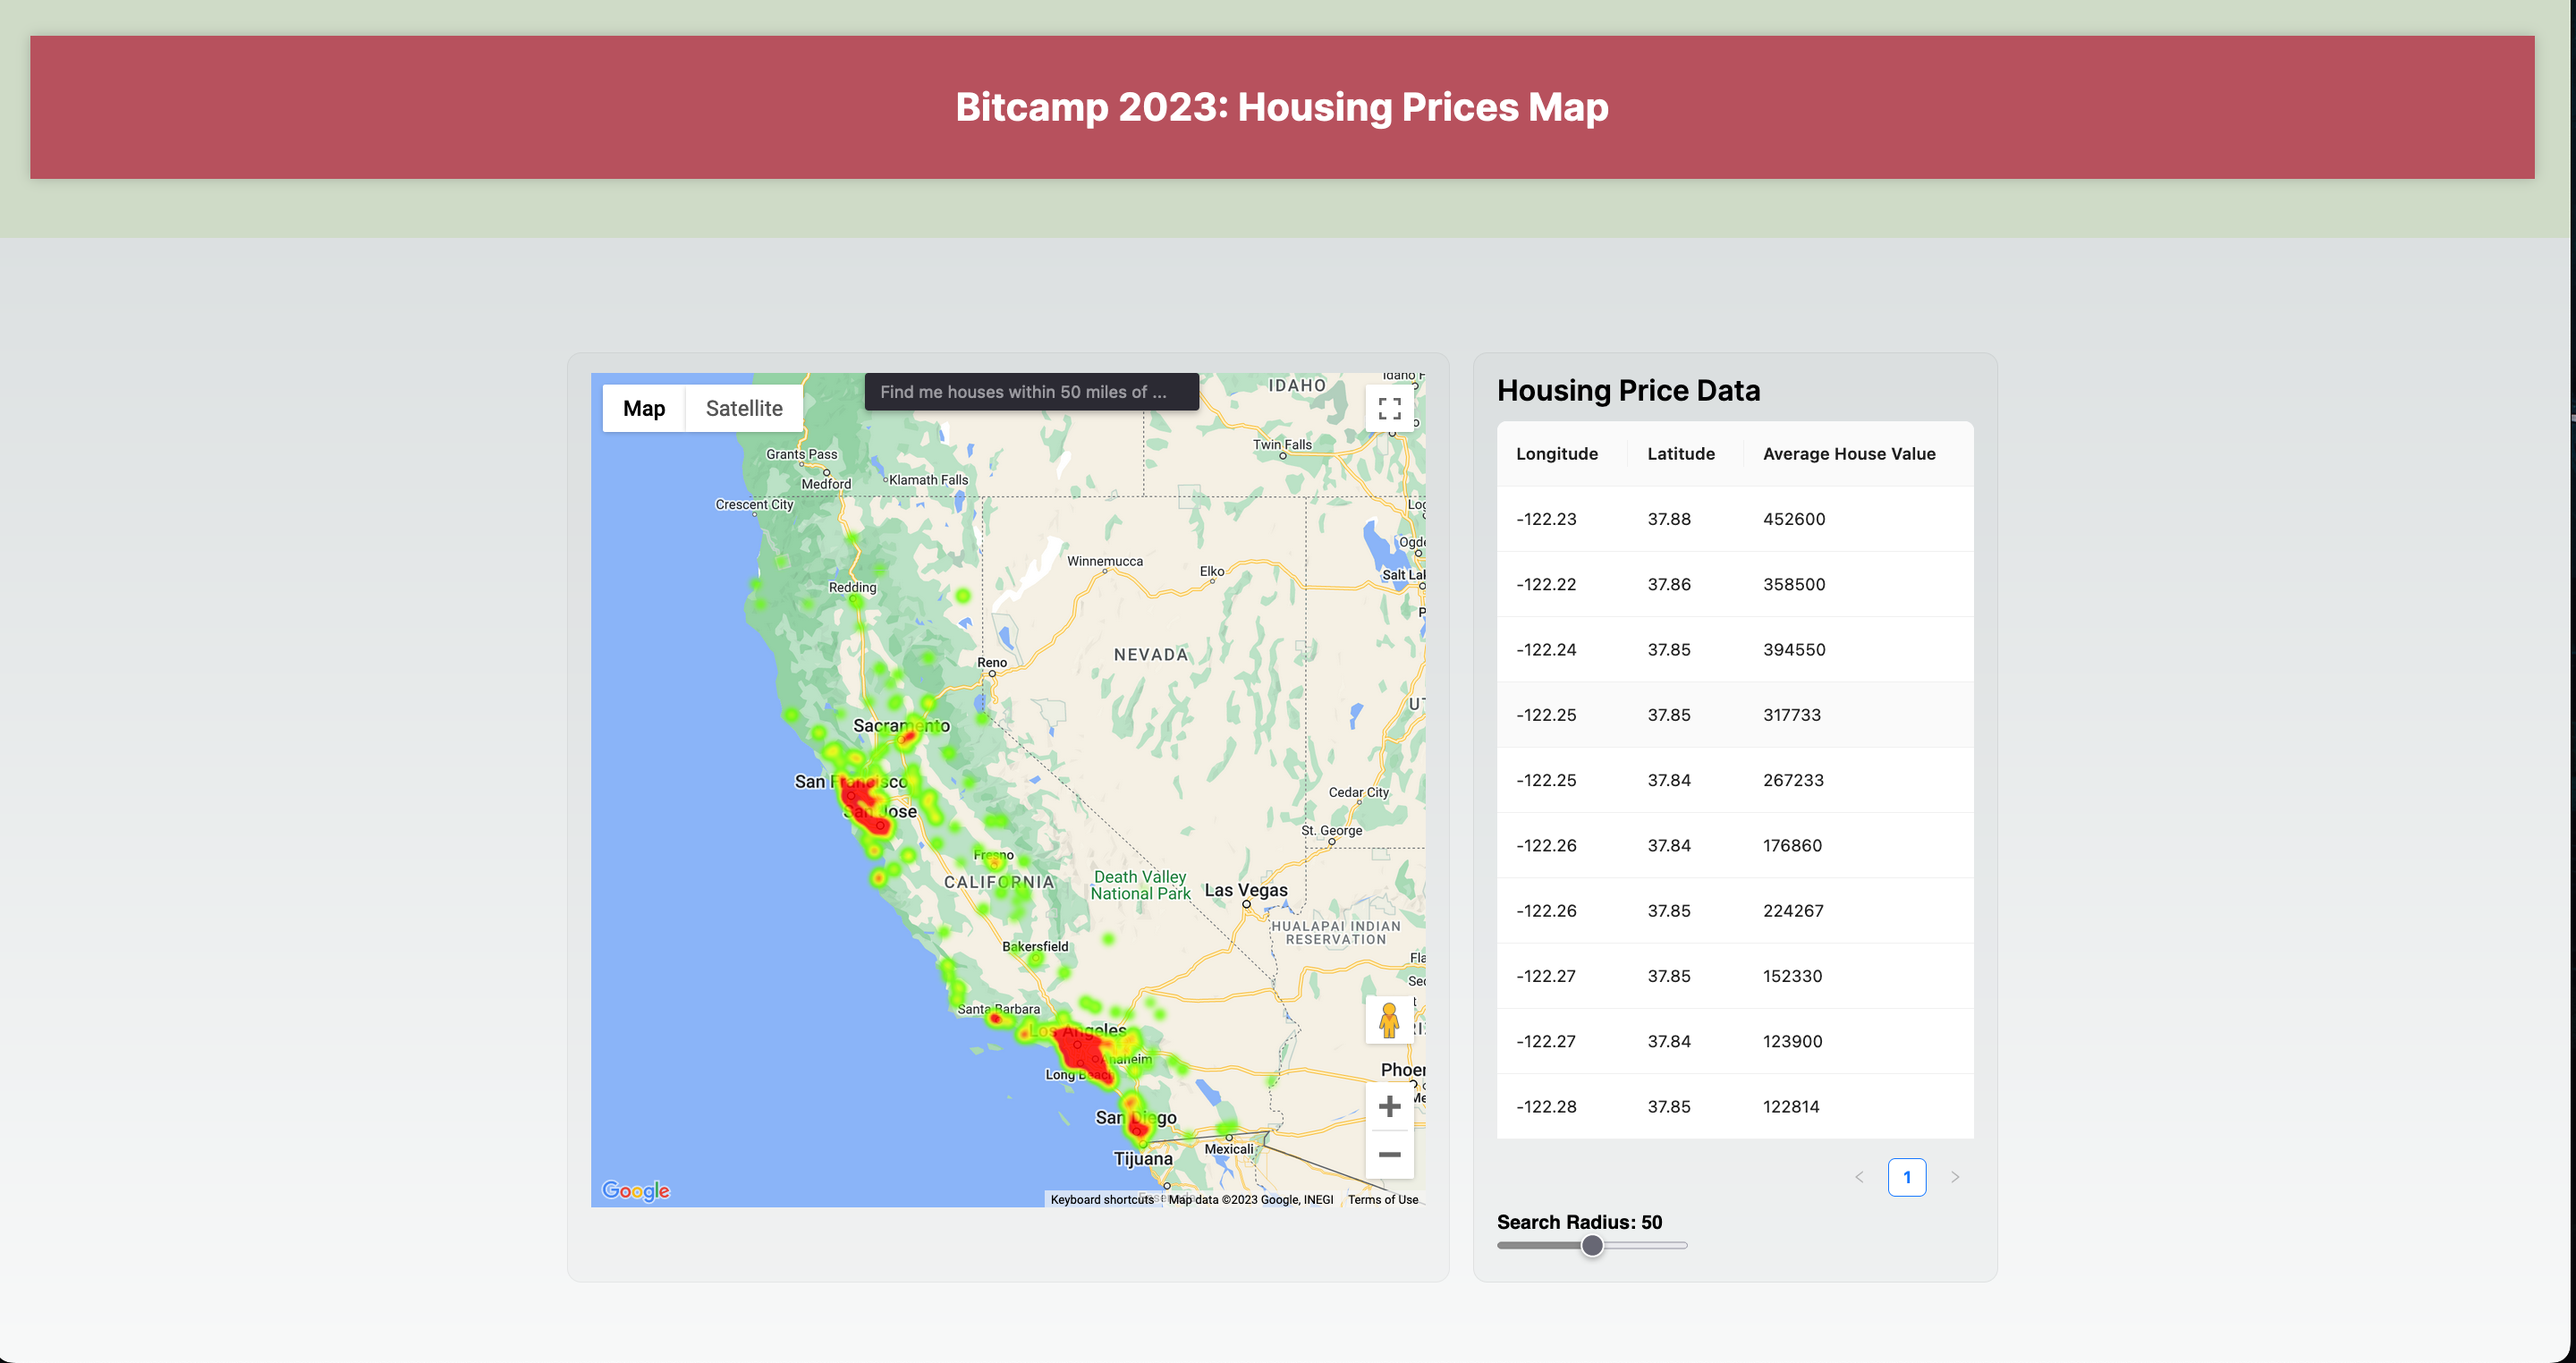
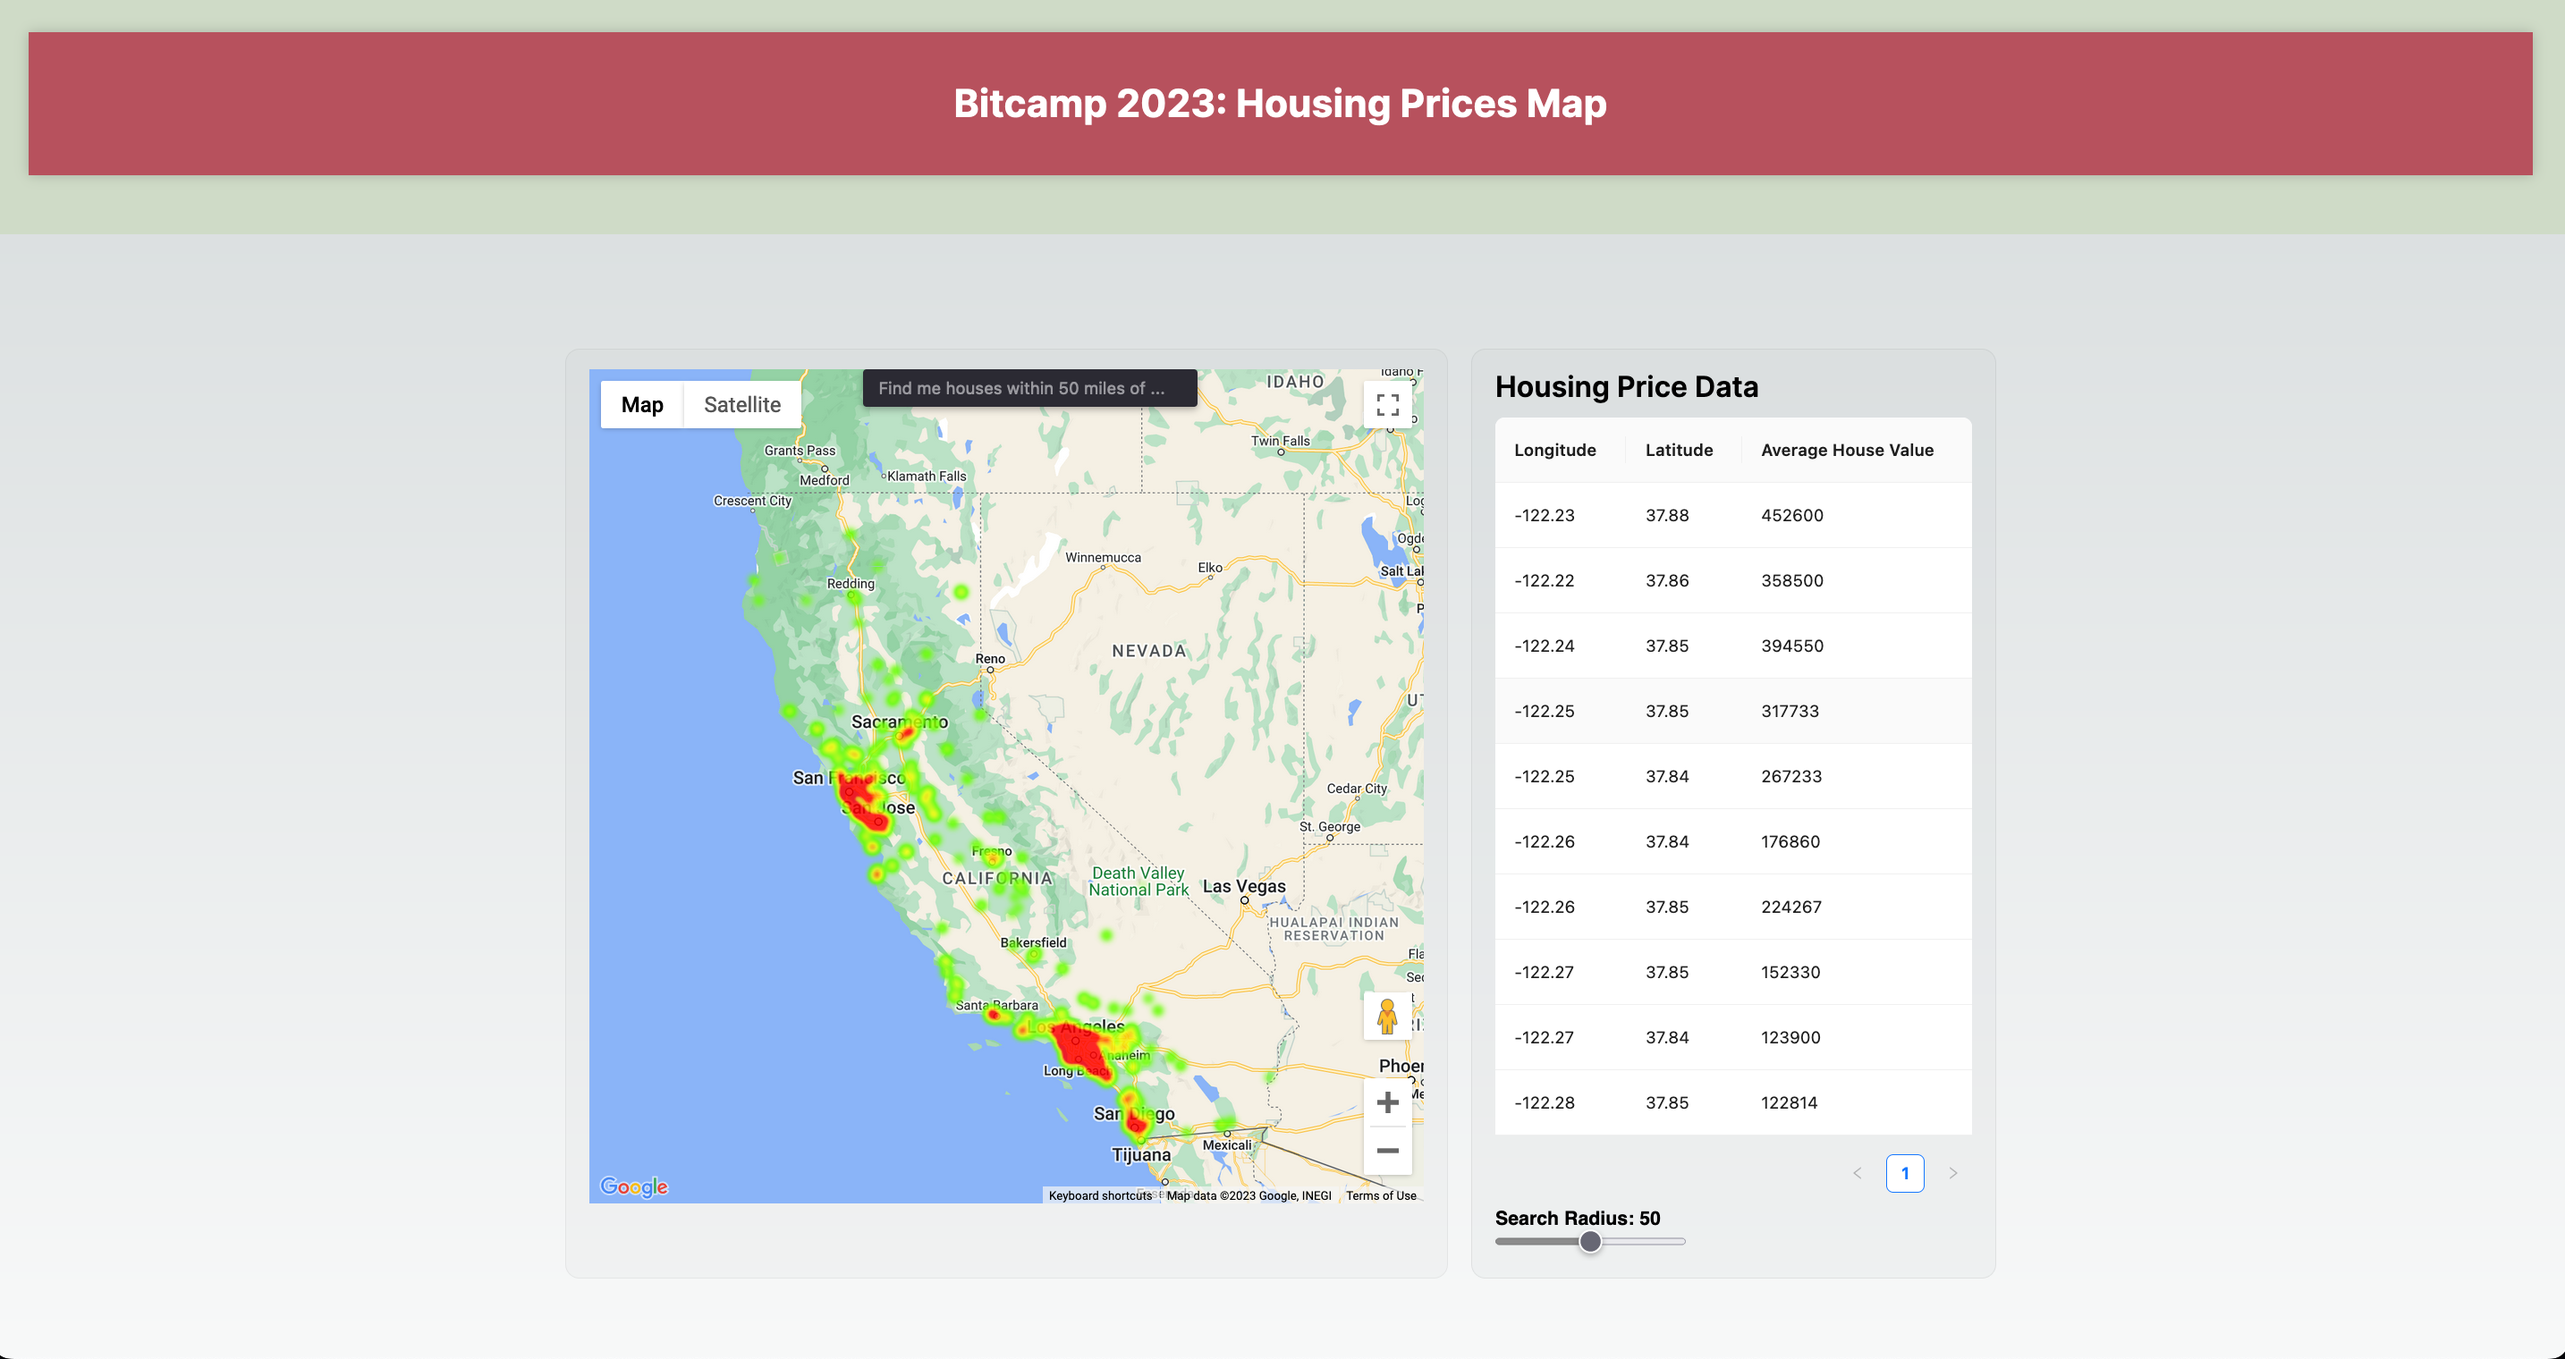
cropped preview, and updated README

diff --git a/README.md b/README.md
@@ -1,3 +1,12 @@
 ### Bitcamp 2023 Submission : Housing Prices Map
 
-[!alt-text](preview.png)
+![alt text](preview.png)
+
+### Production
+
+[link](https://bitcamp-app.azurewebsites.net/)
+
+### DevPost
+
+[link](https://devpost.com/software/housing-price-map)
+    
